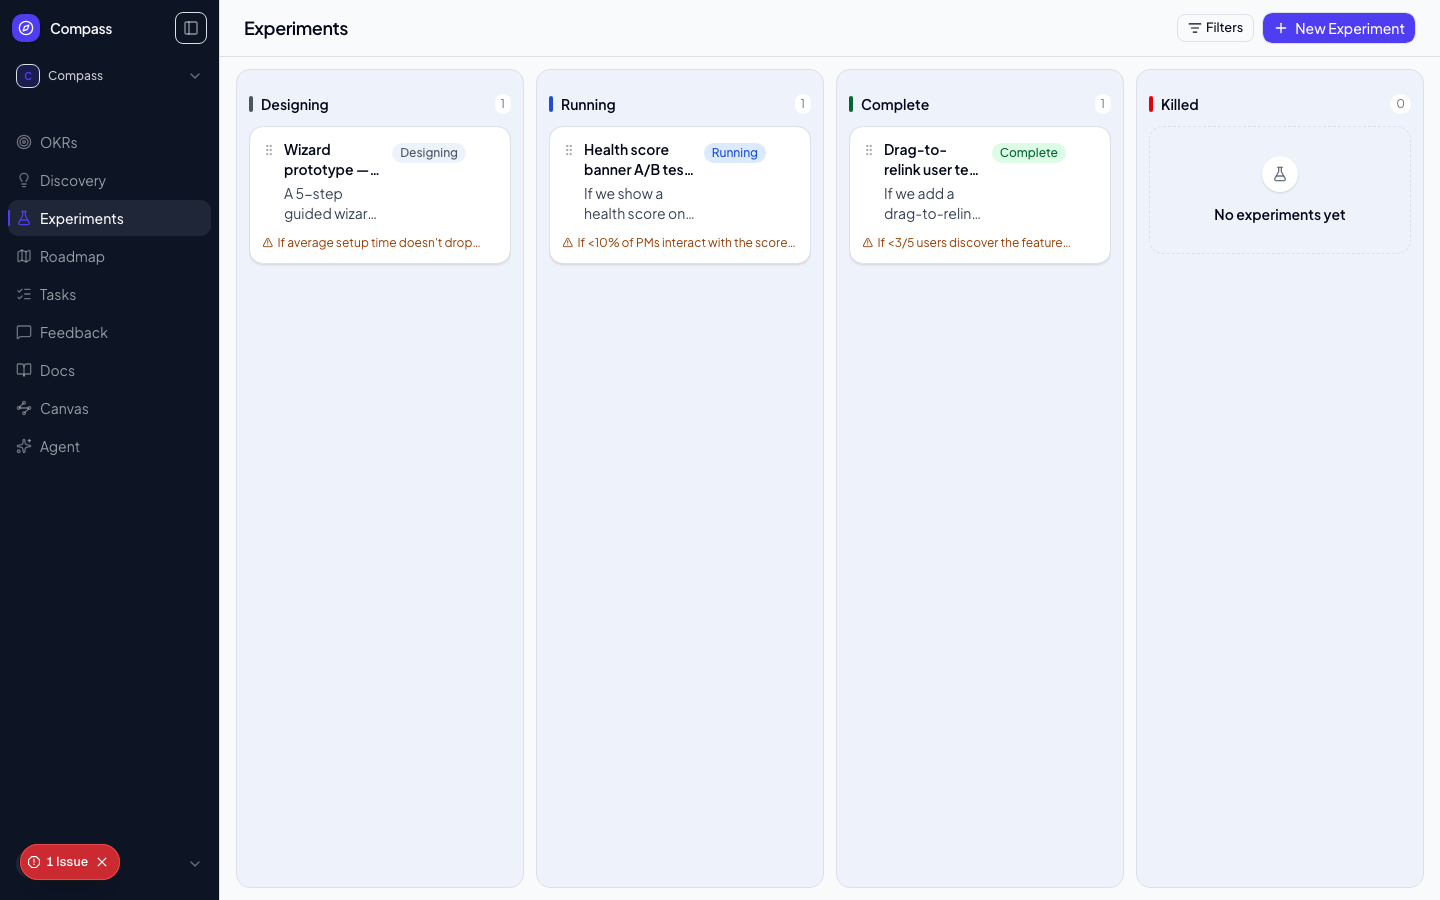
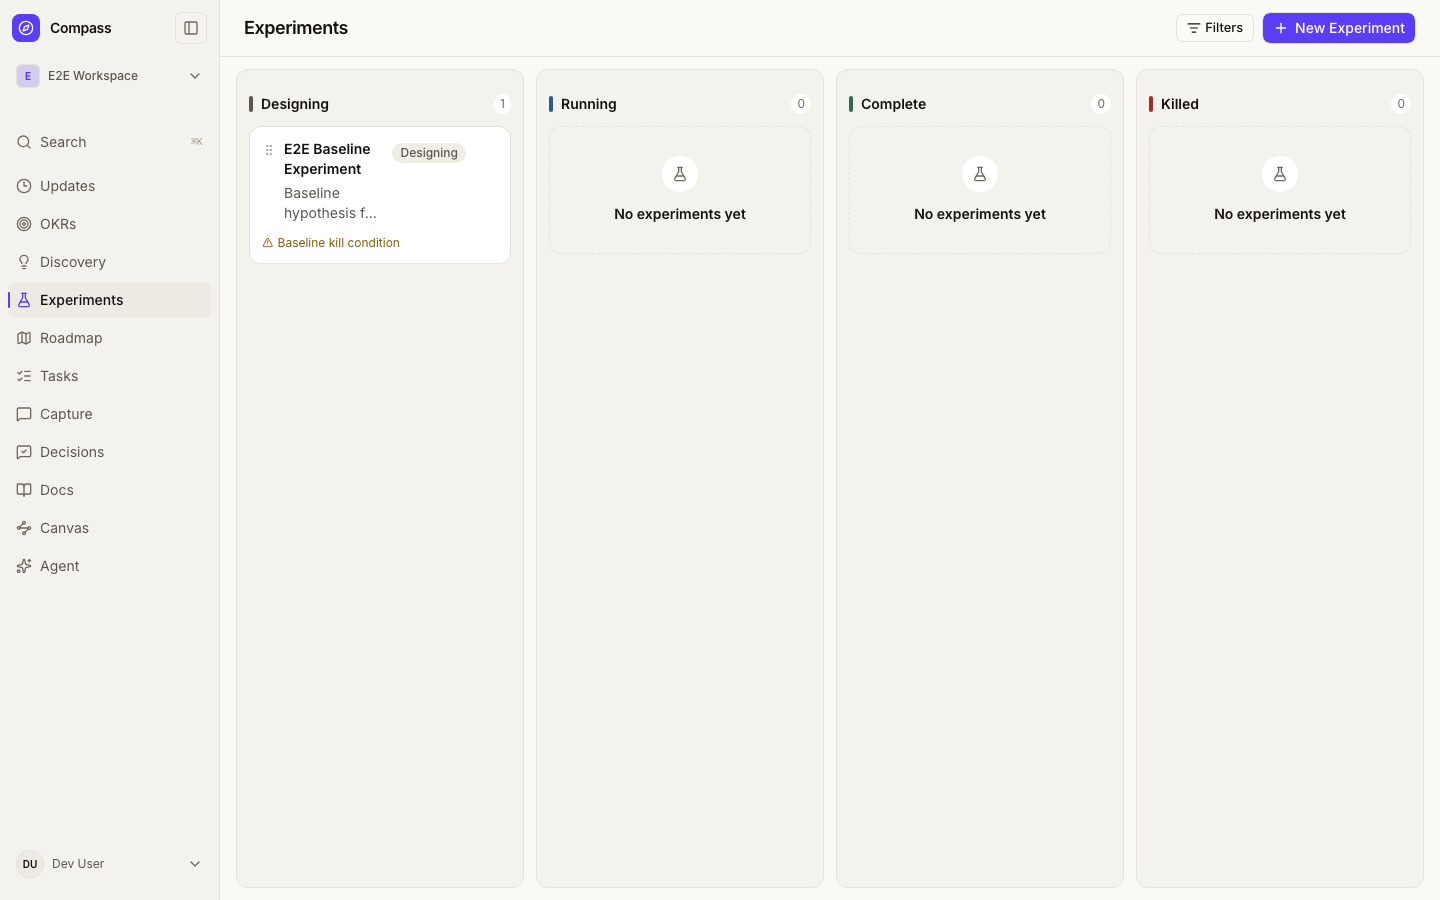
docs: regenerate desktop and mobile Kanban guide screenshots

diff --git a/e2e/screenshots.spec.ts b/e2e/screenshots.spec.ts
@@ -1,6 +1,8 @@
 import { expect, test } from "@playwright/test";
 import path from "path";
 import fs from "fs";
+import { randomUUID } from "node:crypto";
+import pg from "pg";
 import {
   GUIDED_UX_SCREENSHOT_TOKEN,
   buildScreenshotCases,
@@ -31,6 +33,12 @@ type StandardScreenshotCase = {
 };
 
 const STANDARD_PAGES: StandardScreenshotCase[] = [
+  ...[
+    { file: "discovery-board-mobile.png", route: "discovery" },
+    { file: "roadmap-mobile.png", route: "roadmap" },
+    { file: "tasks-mobile.png", route: "tasks" },
+    { file: "experiments-mobile.png", route: "experiments" },
+  ].map(({ file, route }) => ({ file, url: `${WORKSPACE_BASE}/${route}?view=board`, viewport: { width: 390, height: 844 } })),
   ...(FUNCTIONAL || process.env.DOCS_SESSION_FILE
     ? [{ file: "marketing-authenticated.png", url: "/" }]
     : []),
@@ -142,6 +150,31 @@ async function prepareScreenshot(
 }
 
 test.describe("docs screenshots", () => {
+  const screenshotTaskId = randomUUID();
+  const screenshotRoadmapId = randomUUID();
+  let screenshotPool: pg.Pool | undefined;
+
+  test.beforeAll(async () => {
+    if (!FUNCTIONAL) return;
+    const database = new URL(process.env.DATABASE_URL!);
+    if (!["localhost", "127.0.0.1"].includes(database.hostname) || database.pathname !== "/compass_e2e") {
+      throw new Error("Synthetic screenshot cards require the dedicated local compass_e2e database");
+    }
+    screenshotPool = new pg.Pool({ connectionString: database.toString() });
+    const { rows: [workspace] } = await screenshotPool.query("SELECT w.id FROM compass_dev.workspaces w JOIN compass_dev.organizations o ON w.organization_id=o.id WHERE w.slug='e2e-workspace' AND o.slug='e2e-test-org'");
+    await screenshotPool.query("INSERT INTO compass_dev.tasks (id,workspace_id,title,status,sort_order) VALUES ($1,$2,'Prepare customer interview questions','BACKLOG',-100)", [screenshotTaskId, workspace.id]);
+    await screenshotPool.query("INSERT INTO compass_dev.roadmap_items (id,workspace_id,title,horizon,sort_order) VALUES ($1,$2,'Simplify the first workspace setup','NOW',-100)", [screenshotRoadmapId, workspace.id]);
+  });
+
+  test.afterAll(async () => {
+    if (!screenshotPool) return;
+    try {
+      await screenshotPool.query("DELETE FROM compass_dev.tasks WHERE id=$1", [screenshotTaskId]);
+      await screenshotPool.query("DELETE FROM compass_dev.roadmap_items WHERE id=$1", [screenshotRoadmapId]);
+    } finally {
+      await screenshotPool.end();
+    }
+  });
   test.use({
     storageState: process.env.DOCS_SESSION_FILE
       ? process.env.DOCS_SESSION_FILE

diff --git a/docs/content/02-discovery.md b/docs/content/02-discovery.md
@@ -14,6 +14,10 @@ The Discovery section is the heart of Compass. It's where you manage your **Oppo
 
 ![Discovery board](/screenshots/docs/discovery-board.png)
 
+On mobile, each column fills the available board width with small side gutters. Swipe sideways to reach the next column.
+
+![Discovery board on mobile](/screenshots/docs/discovery-board-mobile.png)
+
 > 📸 Screenshot: run `pnpm docs:screenshots` with a `DOCS_SESSION_FILE` to capture this image.
 
 Use the **Board | Table** toggle in the page header to choose how you scan active opportunities. Board view supports drag-and-drop workflow management. Table view provides a compact overview of status, squad, customer segment, evidence, and solution count.

diff --git a/docs/content/03-experiments.md b/docs/content/03-experiments.md
@@ -14,6 +14,10 @@ Experiments let you test the riskiest assumptions attached to your solutions bef
 
 ![Experiments page](/screenshots/docs/experiments.png)
 
+On mobile, each column fills the available board width with small side gutters. Swipe sideways to reach the next column.
+
+![Experiments page on mobile](/screenshots/docs/experiments-mobile.png)
+
 > 📸 Screenshot: run `pnpm docs:screenshots` with a `DOCS_SESSION_FILE` to capture this image.
 
 ## The Experiment Lifecycle

diff --git a/docs/content/04-roadmap.md b/docs/content/04-roadmap.md
@@ -16,6 +16,10 @@ Open a Roadmap item's detail panel to discuss it with the team. Shared Discussio
 
 ![Roadmap](/screenshots/docs/roadmap.png)
 
+On mobile, each column fills the available board width with small side gutters. Swipe sideways to reach the next column.
+
+![Roadmap on mobile](/screenshots/docs/roadmap-mobile.png)
+
 > 📸 Screenshot: run `pnpm docs:screenshots` with a `DOCS_SESSION_FILE` to capture this image.
 
 ## The Four Horizons

diff --git a/docs/content/13-tasks.md b/docs/content/13-tasks.md
@@ -14,6 +14,10 @@ Tasks is Compass's standalone delivery/tracking entity. It's built to scale from
 
 ![Tasks](/screenshots/docs/tasks.png)
 
+On mobile, each column fills the available board width with small side gutters. Swipe sideways to reach the next column.
+
+![Tasks on mobile](/screenshots/docs/tasks-mobile.png)
+
 > 📸 Screenshot: run `pnpm docs:screenshots` with a `DOCS_SESSION_FILE` to capture this image.
 
 ## Status Vocabulary
